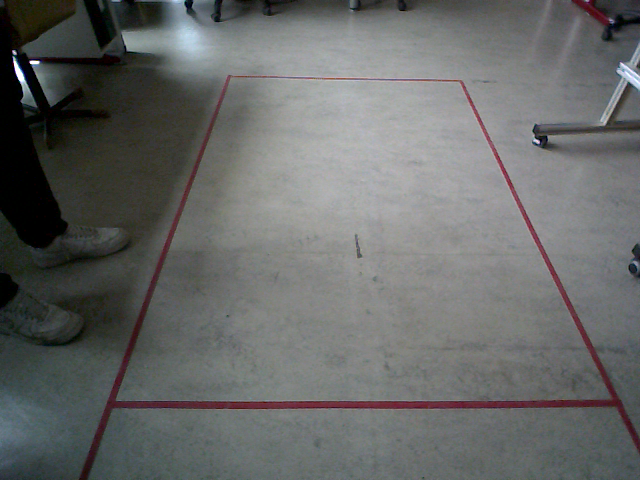
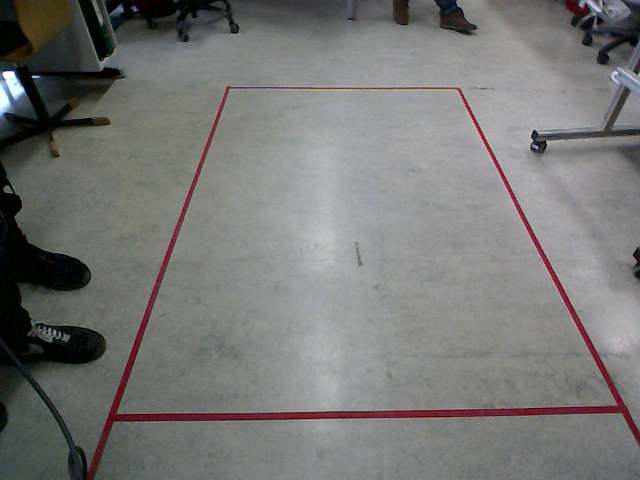
bruder ich habe keine ahnung das back ich jetzt mal up und dann schau ma was passiert

diff --git a/src/transform.py b/src/transform.py
@@ -1,6 +1,8 @@
 import cv2
 import numpy as np
 
+INPUT_PATH = '../src/bodennew.png'
+
 def transform_img_to_rectangle(width, height, source_points, destination_pts):
     """
     Transforms the perspective of an image from a trapezoid to a rectangle.
@@ -12,8 +14,7 @@ def transform_img_to_rectangle(width, height, source_points, destination_pts):
     - dst_pts: A list of points defining the corners of the rectangle in the output image.
     """
 
-    INPUT_PATH = '../input/boden.jpg'
-    image = cv2.imread('../src/bodennew.png')
+    image = cv2.imread(INPUT_PATH)
     
     if image is None:
         print(f"Error: Could not load image from {INPUT_PATH}")
@@ -28,3 +29,43 @@ def transform_img_to_rectangle(width, height, source_points, destination_pts):
     
 def px_to_cm(x,y):
     np.array([x/4,y/4])
+    
+def detect_rectangle_edges():
+    # Load the image
+    image = cv2.imread(INPUT_PATH)
+    
+    # Convert to grayscale
+    gray = cv2.cvtColor(image, cv2.COLOR_BGR2GRAY)
+
+    # Apply Gaussian blur
+    blurred = cv2.GaussianBlur(gray, (5, 5), 0)
+    
+    # Edge detection
+    edges = cv2.Canny(blurred, 50, 150)
+
+    # Find contours
+    contours, _ = cv2.findContours(edges.copy(), cv2.RETR_EXTERNAL, cv2.CHAIN_APPROX_SIMPLE)
+
+    # Iterate through contours and approximate them
+    all_corners = []
+    for contour in contours:
+        # Approximate the contour
+        perimeter = cv2.arcLength(contour, True)
+        approximation = cv2.approxPolyDP(contour, 0.02 * perimeter, True)
+
+        # Check if the approximated contour has four points
+        if len(approximation) == 4:
+            # These points are the corners of the rectangle
+            corners = approximation.reshape(4, 2)
+            print("Rectangle corners:", corners)
+            
+            # Optional: draw the rectangle on the image
+            cv2.drawContours(image, [approximation], -1, (0, 255, 0), 3)
+            cv2.imshow('Rectangle Detected', image)
+            cv2.waitKey(0)
+            #print(all_corners)
+            #cv2.imwrite('../output/line.png',image)
+            all_corners.append(corners)
+            
+            return corners
+#top-left, top-right, bottom-right, bottom-left

diff --git a/src/main.py b/src/main.py
@@ -1,15 +1,28 @@
 import cv2
 import numpy as np
 
-from transform import transform_img_to_rectangle
-
+from transform import detect_rectangle_edges, transform_img_to_rectangle
 def main():
     width = 502
     height = 743
-    src_pts = np.array([[203, 66], [438, 76], [570, 396], [68, 396]], dtype="float32")
-    dst_pts = np.array([[0, 0], [width - 1, 0], [width - 1, height - 1], [0, height - 1]], dtype="float32")
+    src_pts = detect_rectangle_edges()
+    if src_pts is None:
+        print("Could not detect rectangle edges.")
+        return
+    #src_pts = np.array(src_pts, dtype=np.float32)  # Ensure src_pts is correctly formatted
+    src_pts = np.array(detect_rectangle_edges(), dtype=np.float32)
+    dst_pts = np.array([[0, 0], [width - 1, 0], [width - 1, height - 1], [0, height - 1]], dtype=np.float32)
     transform_img_to_rectangle(width, height, src_pts, dst_pts)
+    
+    src_pts = detect_rectangle_edges()
+    if src_pts is None:
+        print("Could not detect rectangle edges.")
+        return
+    src_pts = np.array(src_pts, dtype=np.float32)  # Ensure src_pts is correctly formatted
+    # Existing setup code...
+    
+    # Proceed with transformation...
+
 
 if __name__ == "__main__":
     main()
-
